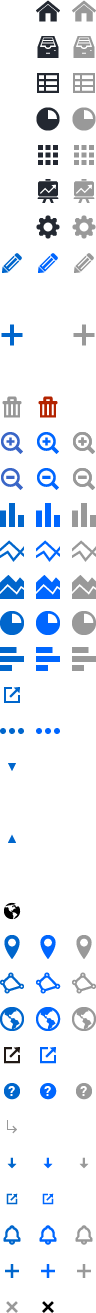
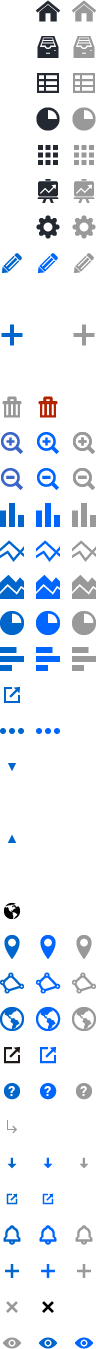
[Workspace] Ícono 'Mostrar' agregado

diff --git a/core/media/core/styles/icons.css b/core/media/core/styles/icons.css
@@ -96,6 +96,9 @@
 .icon-close{background-position:-12px -1308px;}
 .icon-close:hover{background-position:-48px -1308px;}
 
+.icon-eye{background-position:-12px -1344px;}
+.icon-eye:hover{background-position:-48px -1344px;}
+
 /* Arrows */
 .icon-arrow-down-right{background-position:-12px -1128px;}
 
